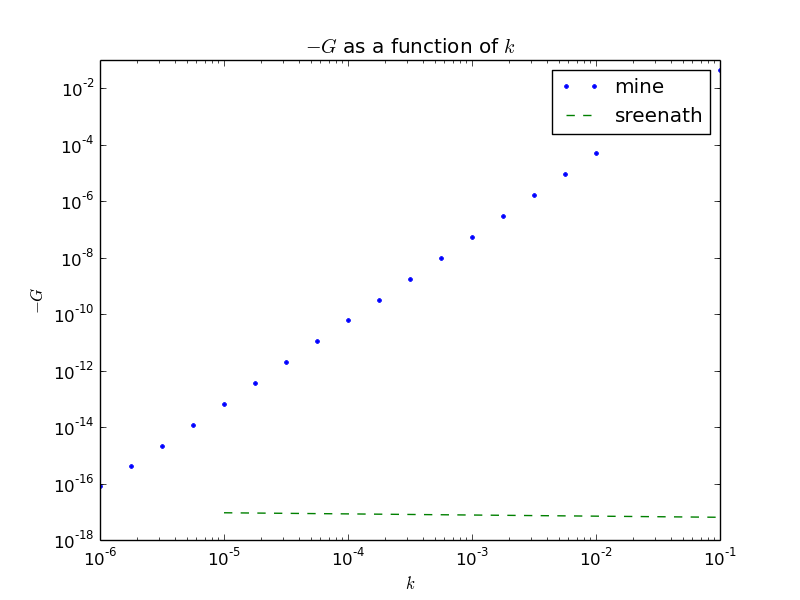
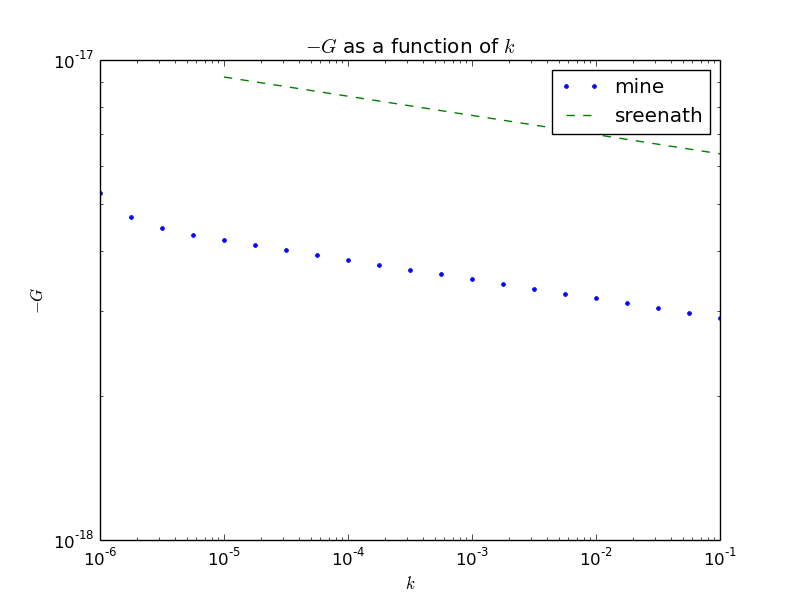
updated G plot

diff --git a/power_law/bi-spectrum/squeezed_limit/data_files/plot.py b/power_law/bi-spectrum/squeezed_limit/data_files/plot.py
@@ -25,7 +25,7 @@ plt.ylabel(r'$-G$')
 plt.title(r'$-G$ as a function of $k$')
 #plt.ylim([0.87,0.89])
 #c, = plt.plot(h_NL_c_data[:,], h_NL_c_data[:,], '.')
-python, = plt.loglog(G_py_data[:,0], (G_py_data[:,0]**6.)*numpy.absolute(G_py_data[:,4]), '.')
+python, = plt.loglog(G_py_data[:,0], (G_py_data[:,0]**3.)*(4e-07**3.)*numpy.absolute(G_py_data[:,4]), '.')
 mathematica, = plt.loglog(G_m_data[:,0], numpy.absolute(G_m_data[:,1]), '--')
 #m, = plt.plot(h_NL_m_data[:,], h_NL_m_data[:,], '.')
 #plt.legend([c, python, m],['c', 'python', 'mathematica'])
